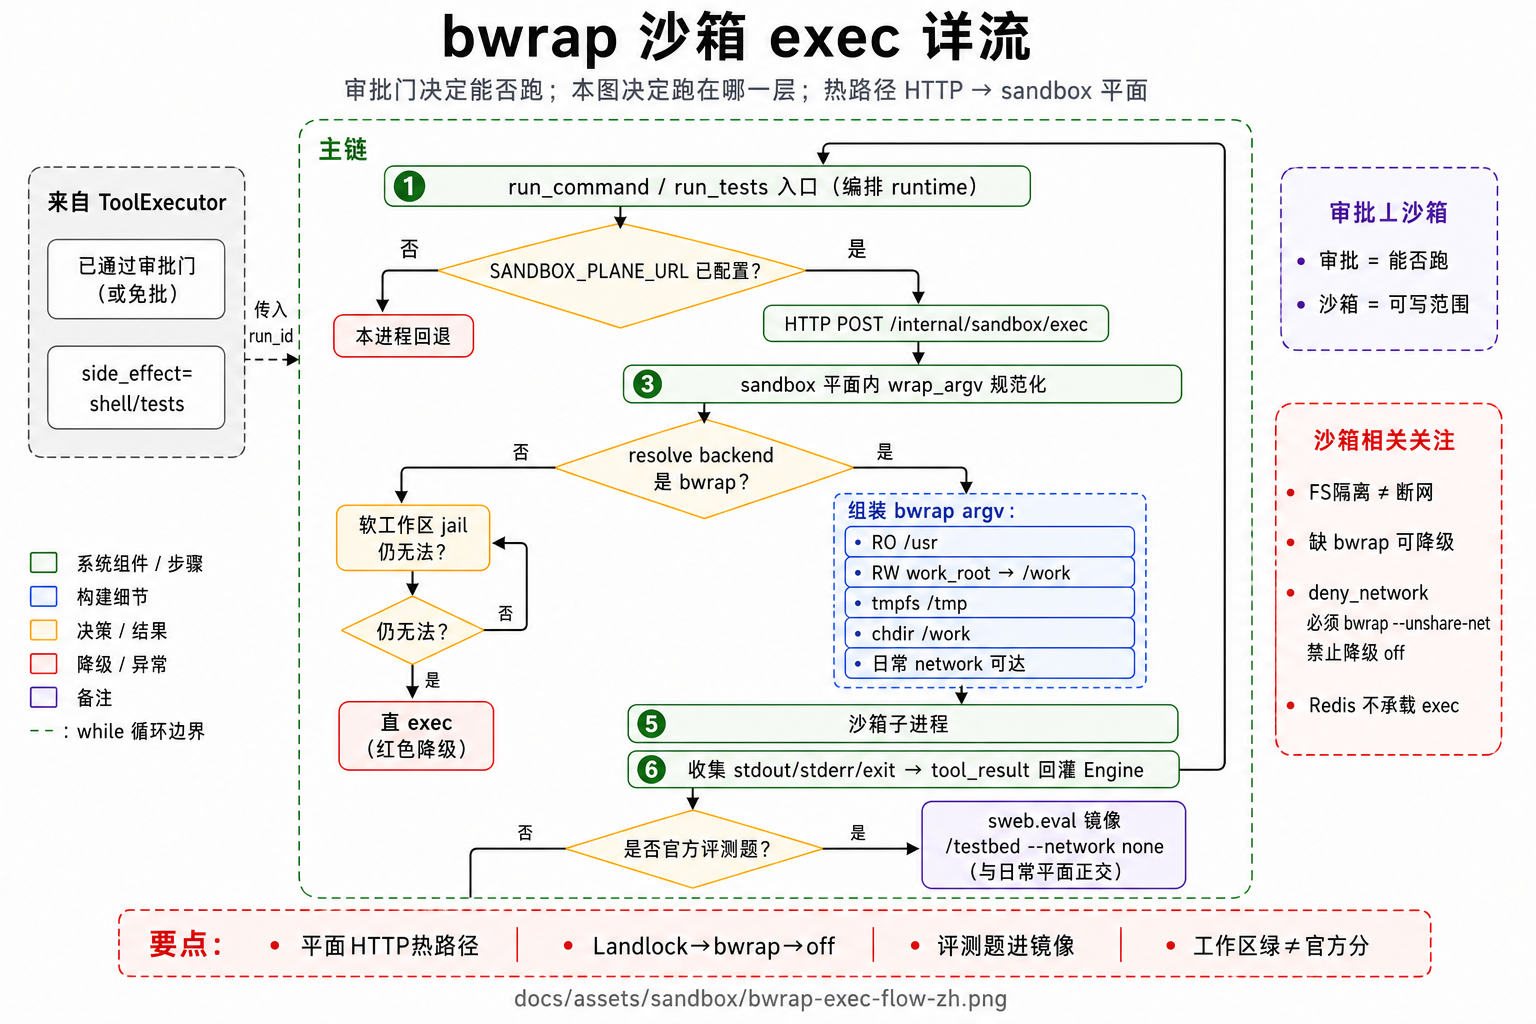
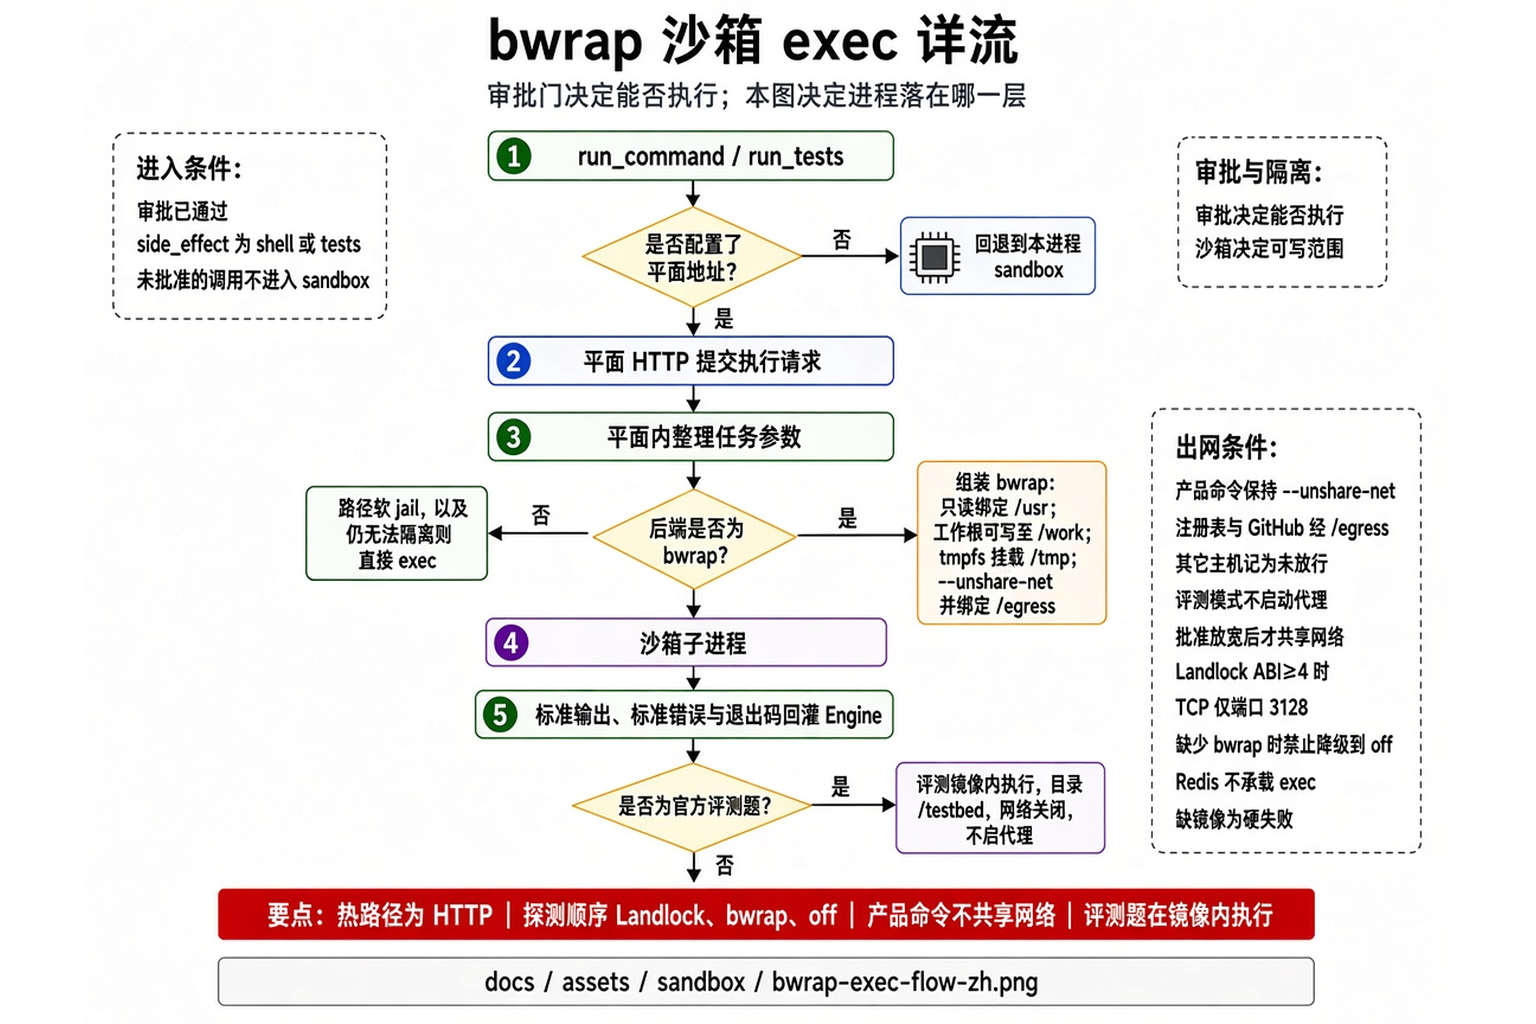
Describe sandbox, approval, and eval boundaries on the current coding path.

diff --git a/docs/tour/pages/sandbox.html b/docs/tour/pages/sandbox.html
@@ -1,7 +1,7 @@
 <section class="page" data-id="sandbox" data-group="场景与工具" data-title="exec 沙箱">
         <div class="card">
           <h2>exec 沙箱与评测解题改道</h2>
-          <p class="lede">审批门通过之后，仍须决定进程可触达的范围。威胁模型是保护<strong>宿主机与 agent 服务</strong>：子进程文件系统只对当前 Work 根 RW。默认经 <code>SANDBOX_PLANE_URL</code> 调 sandbox 平面 <code>POST /internal/sandbox/exec</code>（HTTP 热路径，不上 Redis 总线）；平面内再选 Landlock / bwrap / off。日常出站网络默认可用（已审批的 <code>curl https://…</code> 不应被沙箱误杀）；产品层「禁 curl」是另一条规则，不要焊进内核隔离。</p>
+          <p class="lede">审批通过只说明这次调用可以执行。可写路径和出网主机由沙箱再定：子进程对当前 Work 根可写，宿主机和 agent 服务的其余路径不在这个可写面里。执行请求走 <code>SANDBOX_PLANE_URL</code> 的 <code>POST /internal/sandbox/exec</code>，不进 Redis。调用方等的是这一次的退出码，队列里的消息可以晚到。产品命令在 bwrap 里 <code>--unshare-net</code>，注册表和 GitHub 经沙箱内 <code>127.0.0.1:3128</code> 出去；其它主机要在 <code>egress_hosts</code> 里点名再批。评测关掉这条代理。<code>sandbox_relax</code> 批准之后，网络才改为共享。</p>
           <ul class="seq-legend">
             <li><span class="pt">◆ 要点</span> 评测要求断网时必须使用 bwrap。工作区里的测试通过不算官方分数。</li>
           </ul>
@@ -13,8 +13,9 @@
 平面内选择顺序  Landlock → bwrap → off
   Landlock  Linux ≥5.13，ABI≥1；restrict_self 不可逆，探针在子进程做
             可写 jail = 当前 work_root（与 bwrap RW 面一致）；私有 tmpdir
-            <strong>撤不掉 egress</strong>——只锁 FS
-  bwrap     包装 argv；日常 network=True（不 --unshare-net）
+            ABI≥4 且挂了 /egress 时，TCP 只允许连本机 3128
+  bwrap     包装 argv；产品命令 --unshare-net，并绑定 /egress 代理
+            评测：不启代理。sandbox_relax 批准后才 --share-net
   off       裸 shell；argv 仍先过路径软 jail（不得越出 Work 根）
   TOOL_SANDBOX=off|landlock|bwrap  破窗覆盖；off 每次调用都生效，自动探测结果 pin 在进程生命周期
   结果 dict 带 sandbox 后端标识，便于 Ops 判断「这步到底关在哪一层」
@@ -35,12 +36,12 @@
   否  走上一节日常沙箱
       仍不得越出当前 Work 根
       与审批门正交：未批准的 run_command 根本不会进 sandbox</pre>
-          <p class="figure-lead">下图菱形「是否评测题」对应主链第 2 步；否分支才是日常沙箱。</p>
+          <p class="figure-lead">下图有三处菱形。未配置平面地址则回退到本进程。后端不是 bwrap 则走路径软 jail，是则组装 <code>--unshare-net</code> 与 <code>/egress</code>。官方评测题在镜像内执行并关闭网络。右栏写审批与出网条件。</p>
           <div class="src"><code>services/sandbox</code> · <code>tools/core/remote_sandbox.py</code> · <code>tools/core/sandbox.py</code> · <code>tools/core/landlock_fs.py</code> · <code>structural/test_run_redirect.py</code></div>
         </div>
         <figure class="figure">
           <div class="diagram-body diagram-svg">
-            <img src="../assets/sandbox/bwrap-exec-flow-zh.png" alt="exec 沙箱与评测题 Docker 跑测" />
+            <img src="../assets/sandbox/bwrap-exec-flow-zh.png" alt="bwrap 沙箱 exec 详流：平面 HTTP 提交执行，产品命令保持 --unshare-net，评测题在镜像内执行" />
           </div>
           <figcaption>exec 沙箱详流 · 点击放大</figcaption>
         </figure>

diff --git a/docs/tour/pages/related-tests.html b/docs/tour/pages/related-tests.html
@@ -1,9 +1,9 @@
 <section class="page" data-id="related-tests" data-group="Coding" data-title="失败摘要与相关测试">
         <div class="card">
           <h2>失败摘要、相关测试命令、找定义路径</h2>
-          <p class="lede">三件写入既有 <code>tool_result</code> 的事实：失败摘要、相关测试命令、Locate 定义。平台永不代跑相关测试；官方分仍看 harness。</p>
+          <p class="lede">失败摘要、相关测试命令和 Locate 定义都写进既有的 <code>tool_result</code>，不另开工具名。附带的测试命令默认留给模型决定要不要跑。产品编码回合里，模型已经准备结束、测试仍欠着时，引擎执行其中路径最长的一条，把输出放回对话。评测回合不执行这一条，分数只来自镜像里的 harness。</p>
           <ul class="seq-legend">
-            <li><span class="pt">◆ 要点</span> 相关测试命令写在 tool_result 中，由模型决定是否执行。平台不代跑。</li>
+            <li><span class="pt">◆ 要点</span> 相关测试是 <code>tool_result</code> 里的事实。产品回合在交卷前执行一条；评测分数不看这一条。</li>
           </ul>
           <h3>三条车道</h3>
           <pre class="seq">失败摘要（test_summary）
@@ -13,13 +13,16 @@
   is_testish_command 决定这次 run_command/run_tests 能不能清掉 verify_pending
   冒烟从 0 走到第5轮 0.50，出口线仍 ≥0.6（评测观察）
 
-相关测试（edit_file 成功后附带，平台永不代跑）
+相关测试（edit_file 成功后附带）
   最多 5 条：{path, command}，command = python -m pytest {path} -x -q
+  产品交卷且 verify_pending：run_product_verify_hook 执行路径最长的一条，每 Turn 一次，然后 continue
+  模型能在同一次回合里看到输出。评测或 product_post_edit_hook 关闭时不执行
+  评测若在工作区里跑这条命令，结果会看起来像分数，而官方分在镜像里
   命名启发式 rglob 预算 250ms；import 反向最多 250 文件 / 400ms
   跳过 .git / venv / node_modules / __pycache__ / build / dist …
   优先精确到单个测试文件（便于送进该题 Docker），而不是 pytest 全库
   第5轮：coverage 1.0，adoption 0.0——门能给出命令，模型仍经常不跑
-  <span class="pt">◆ 要点  相关测试是 tool_result 里的事实，不是隐藏调度。平台代跑会让官方 resolve_rate 与探针绿混在一起。</span>
+  <span class="pt">◆ 要点  相关测试是 tool_result 里的事实。产品回合在交卷前只执行一条。评测分数仍只认镜像里的 harness。</span>
 
 找定义（search_codebase / Locate）
   符号表粗筛 top_k=5 → LSP 在标识符列确认 → 只有确认过的进 definitions[]

diff --git a/docs/tour/pages/approval.html b/docs/tour/pages/approval.html
@@ -27,11 +27,16 @@ waiting_approval     Run 仍在；仍占 inflight + lease
 
 同 Turn 粘性
 ────
-  writes_preapproved：写盘批准一次后，本 Turn 同类写盘免再审
-  exec_preapproved：run_command 第一次仍须审；通过后本 Turn 后续同类 shell 可免再审
-  Plan 进入 executing 只预授权清单内写盘（_PLAN_EXECUTING_WAIVE_APPROVAL），不等于 shell 免审
-  普通进度清单更新 ≠ 已批准开工
-  ops_eval 在 StartTurn 已预置这两位，无人值守
+  矩阵路径上，写盘免审要同时有 s1_granted_this_turn 和 shadow_snapshot_id
+  标记只在用户真正批准之后置位。没有快照的写，续跑时仍要问
+  writes_preapproved 不承担这条粘性。没有 sink 的旧规格走 _legacy，下一次写盘不因此放行
+  命令粘性是 s2_granted_this_turn。带 egress_hosts、或仍要网络批准的命令不粘
+  主机名单每次单独批。上一条命令的批准不覆盖下一条的 egress_hosts
+  permission_mode：ask 默认；auto_edit / full_auto 在影子快照存在时放行可回退写盘
+  工作区构建、测试、格式化，在沙箱就绪且不是评测时可以直接执行
+  .git、工作流、package.json 等执行配置路径强制再审。改这些文件会改变以后每次命令怎么跑
+  Plan 进入 executing 只预授权清单内写盘，shell 仍要审
+  ops_eval 不在 StartTurn 预批准写盘或 exec。评测改的是命令集和网络；预批准会让评测回合跳过审批记录
     <span class="pt">◆ 要点  把 update_plan 当成开工批准，未审的 shell 会直接跑。</span></pre>
 
           <h3>取消</h3>

diff --git a/docs/tour/pages/ops-eval-coding.html b/docs/tour/pages/ops-eval-coding.html
@@ -68,7 +68,9 @@ ValueError: Unrecognized QDP line: read serr 1 2</pre>
      P2P 8 条全绿不能替代这一条 F2P</pre>
           <p>对照会过的题 <code>astropy__astropy-12907</code>（同一 <code>repo</code>；<code>base_commit</code> <a href="https://github.com/astropy/astropy/tree/d16bfe05a744909de4b27f5875fe0d4ed41ce607"><code>d16bfe05a744909de4b27f5875fe0d4ed41ce607</code></a>；issue <a href="https://github.com/astropy/astropy/issues/12907">#12907</a>）。<code>problem_statement</code> 是嵌套 <code>CompoundModels</code> 的 <code>separability_matrix</code> 算错：<code>Pix2Sky_TAN() &amp; cm</code> 不应把后两维粘成不可分。issue 里的 REPL 与隐藏 F2P <code>test_separable[compound_model6/9]</code> 同向，第4–6轮均 resolved。</p>
           <h3>执行路径与 harness 职责</h3>
-          <pre class="seq">产品路径  checkout + problem.md → agent Turn（ops_eval 预批准写盘）
+          <pre class="seq">产品路径  checkout + problem.md → agent Turn
+          ops_eval 不预批准写盘或 exec；它收紧命令集并关掉网络
+          预批准会让评测回合跳过审批记录，工作区里的安装也会进到评测环境
           评测还会等符号表 ready|stale（比产品对话更乐观）
           pytest 改道进该题 Docker = 解题辅助，仍不是分数
 harness   swebench.harness.run_evaluation

diff --git a/docs/tour/pages/start-turn.html b/docs/tour/pages/start-turn.html
@@ -63,8 +63,10 @@ runtime  仅 runner_id 匹配且 lease 仍有效的副本消费
     <span class="pt">◆ 要点  索引可慢；首 token 与 query embed 禁止上 Redis 总线。</span></pre>
 
           <h3>官方评测 Turn</h3>
-          <pre class="seq">StartTurn 即预批准写盘与 exec（ops_eval：无人值守，不拦人审）
-  writes_preapproved / exec_preapproved 随 checkpoint 存活，approve 续跑仍免审
+          <pre class="seq">ops_eval 不在 StartTurn 预批准写盘或 exec
+  评测改的是允许的命令和网络。预批准会让写盘和 exec 跳过审批记录
+  s1_granted_this_turn / s2_granted_this_turn 随 checkpoint 存活
+  用户已经批准过、且影子快照在的可回退写，续跑时不再问一次
   编码评测可在开题前等待符号表 ready（仅评测套件）
     <span class="pt">◆ 要点  产品对话仍先受理，不等索引。把评测的「等 ready」抄到产品路径，R1（首 token）就破了。</span></pre>
           <p class="figure-lead">下图菱形在落库之后、领取之前：pull 走 SUBSCRIBE 与 CAS；push 成功是 runtime <code>/internal/commands/start-turn</code> 返回 202。502 只是这次调用失败时 api 回给浏览器的状态。</p>

diff --git a/docs/tour/pages/verify.html b/docs/tour/pages/verify.html
@@ -13,6 +13,11 @@
     10 的含义：注入后再跑一轮模型 + 至少一次 testish，仍要留出失败再改的余量
   写作 L0 更紧：hinge_reserve = min(reserve, 3)；四类 writing receipt 本 Turn 互斥只发一张
 
+产品执行一条相关命令（先于收据，只产品编码回合）
+  scenario=agent ∧ ¬ops_eval ∧ product_post_edit_hook ∧ verify_pending ∧ 已有相关命令
+  沙箱里跑路径最长的一条，每 Turn 一次，结果写回用户消息后 continue
+  模型在同一次回合里看到输出。评测不进入：工作区里的这条结果不记成分数
+
 编码 1  经典 verify
   verify_pending ∧ code_edits_since_verify ≥ 1 ∧ ¬verify_receipt_sent
   文案引用 related_tests_union 里的可复制命令，以及 last_test_first_failure（若有）

diff --git a/docs/tour/pages/ops-bench.html b/docs/tour/pages/ops-bench.html
@@ -12,7 +12,7 @@
 3  物化隔离 Work：beir-index / cmteb-index / LongBench passage.md / SWE Lite checkout
 4  索引进 bench-postgres 独立 schema（retrieval_ops / retrieval_ops_zh）
      与产品 agent-postgres 不是同一份资料；cgroup 另 1g
-5  菱形 eval_path==agent？  否 → 拒跑。是 → 建产品 Session/Turn（ops_eval 预批准写/exec）
+5  菱形 eval_path==agent？  否 → 拒跑。是 → 建产品 Session/Turn（ops_eval 不预批准写/exec，只收紧命令集并断网）
 6  AgentEngine 跑真工具（search_sources / read_file / edit_file / run_tests…）
 7  从 tool_result / turn_events 抽 ranked / Answer: / 补丁
 8  套件尺子（见下）对照官方金标（金标不在 Work 内）

diff --git a/docs/tour/pages/turn-state.html b/docs/tour/pages/turn-state.html
@@ -17,6 +17,8 @@
 
 粘性批准
   writes_preapproved · exec_preapproved
+  s1_granted_this_turn · s2_granted_this_turn · shadow_snapshot_id · permission_mode
+  矩阵写盘的免审要 s1 与影子快照同时在。writes_preapproved 放不掉下一次写
 
 已读硬门（read_registry）
   路径 → 覆盖区间；完整读过再读同一区间 → skipped
